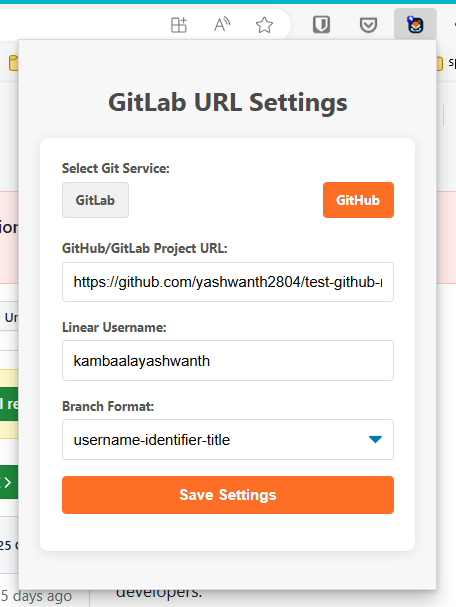
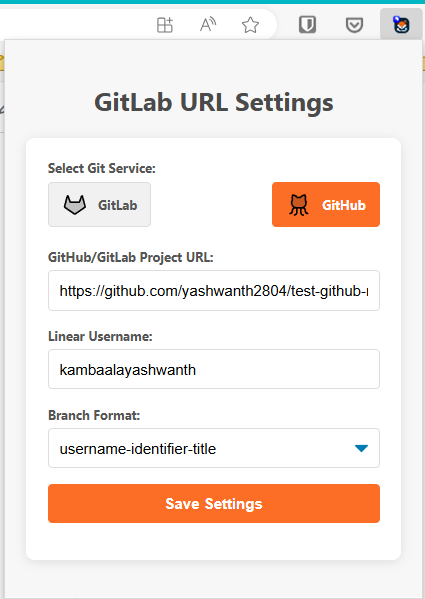
minor changes

diff --git a/popup.html b/popup.html
@@ -105,7 +105,7 @@
     </style>
 </head>
 <body>
-    <h2>GitLab URL Settings</h2>
+    <h2>Github/GitLab URL Settings</h2>
     <form id="urlForm">
         
         <label for="gitService">Select Git Service:</label>
